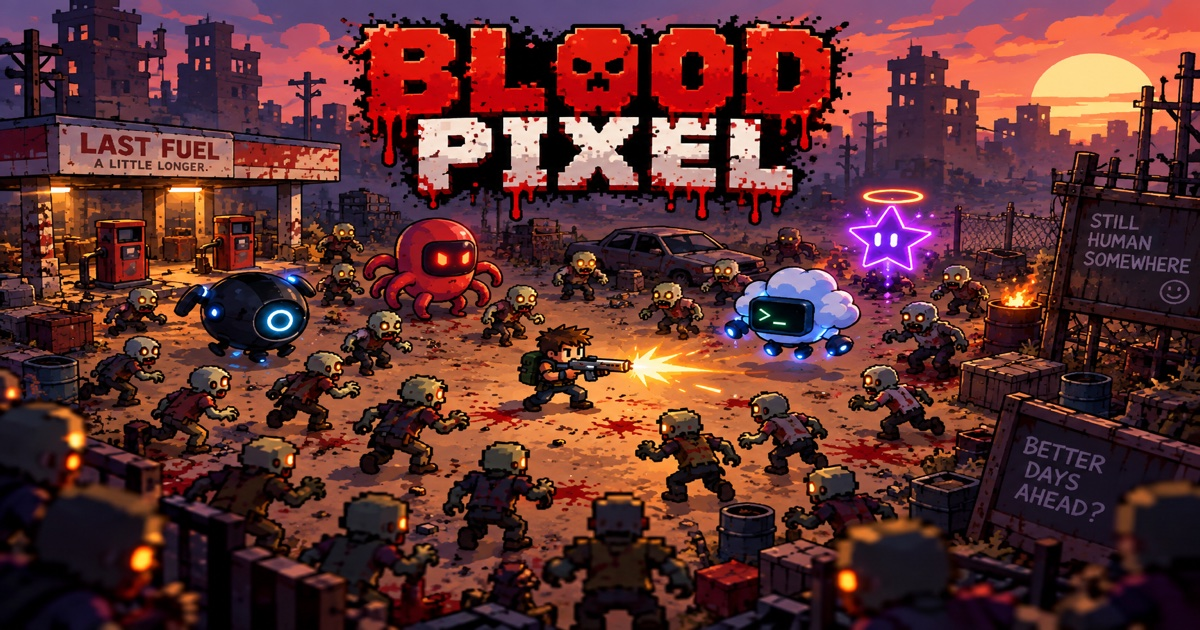
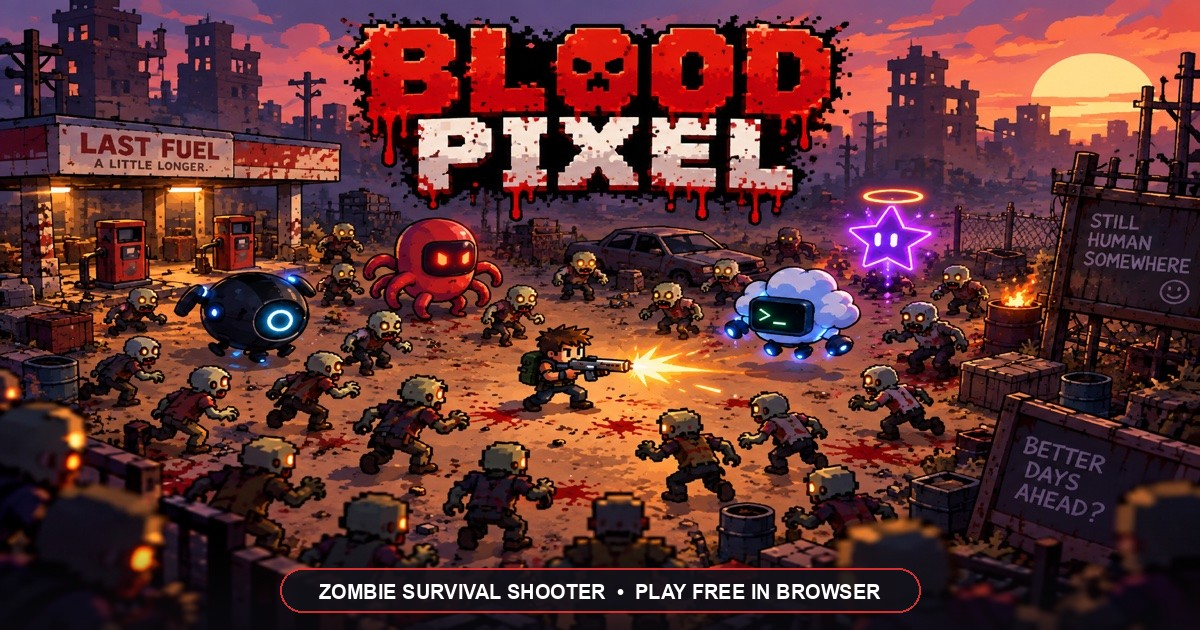
fix(seo): add conversion text overlay to OG image and expand page title/description

diff --git a/index.html b/index.html
@@ -3,26 +3,26 @@
   <head>
     <meta charset="UTF-8" />
     <meta name="viewport" content="width=device-width, initial-scale=1.0" />
-    <meta name="description" content="BLOOD PIXEL — Voxel zombie survival in a ruined world. Fight the dead through fifteen operations." />
+    <meta name="description" content="Fast-paced arcade zombie survival shooter with fluid movement, 6 unlockable weapons, and hordes of undead. Play instantly in browser with no install." />
     <meta name="theme-color" content="#303129" />
     <meta name="color-scheme" content="dark" />
     <meta property="og:type" content="website" />
     <meta property="og:site_name" content="BLOOD PIXEL" />
-    <meta property="og:title" content="BLOOD PIXEL" />
-    <meta property="og:description" content="Action-packed top-down zombie shooter with dynamic weapons, fluid movement, and visceral combat." />
+    <meta property="og:title" content="BLOOD PIXEL — Top-Down Zombie Survival Shooter" />
+    <meta property="og:description" content="Fast-paced arcade zombie survival shooter with fluid movement, 6 unlockable weapons, and hordes of undead. Play instantly in browser with no install." />
     <meta property="og:url" content="https://blood-pixel.vercel.app/" />
     <meta property="og:image" content="https://blood-pixel.vercel.app/og.jpg" />
     <meta property="og:image:secure_url" content="https://blood-pixel.vercel.app/og.jpg" />
     <meta property="og:image:type" content="image/jpeg" />
     <meta property="og:image:width" content="1200" />
     <meta property="og:image:height" content="630" />
-    <meta property="og:image:alt" content="BLOOD PIXEL" />
+    <meta property="og:image:alt" content="BLOOD PIXEL — Top-Down Zombie Survival Shooter. Play Free in Browser!" />
     <meta name="twitter:card" content="summary_large_image" />
-    <meta name="twitter:title" content="BLOOD PIXEL" />
-    <meta name="twitter:description" content="Action-packed top-down zombie shooter with dynamic weapons, fluid movement, and visceral combat." />
+    <meta name="twitter:title" content="BLOOD PIXEL — Top-Down Zombie Survival Shooter" />
+    <meta name="twitter:description" content="Fast-paced arcade zombie survival shooter with fluid movement, 6 unlockable weapons, and hordes of undead. Play instantly in browser with no install." />
     <meta name="twitter:image" content="https://blood-pixel.vercel.app/og.jpg" />
-    <meta name="twitter:image:alt" content="BLOOD PIXEL" />
-    <title>BLOOD PIXEL</title>
+    <meta name="twitter:image:alt" content="BLOOD PIXEL — Top-Down Zombie Survival Shooter. Play Free in Browser!" />
+    <title>BLOOD PIXEL — Top-Down Zombie Survival Shooter (Play Free)</title>
     <link rel="icon" type="image/svg+xml" href="./favicon.svg" />
     <link rel="preconnect" href="https://fonts.googleapis.com" />
     <link rel="preconnect" href="https://fonts.gstatic.com" crossorigin />
